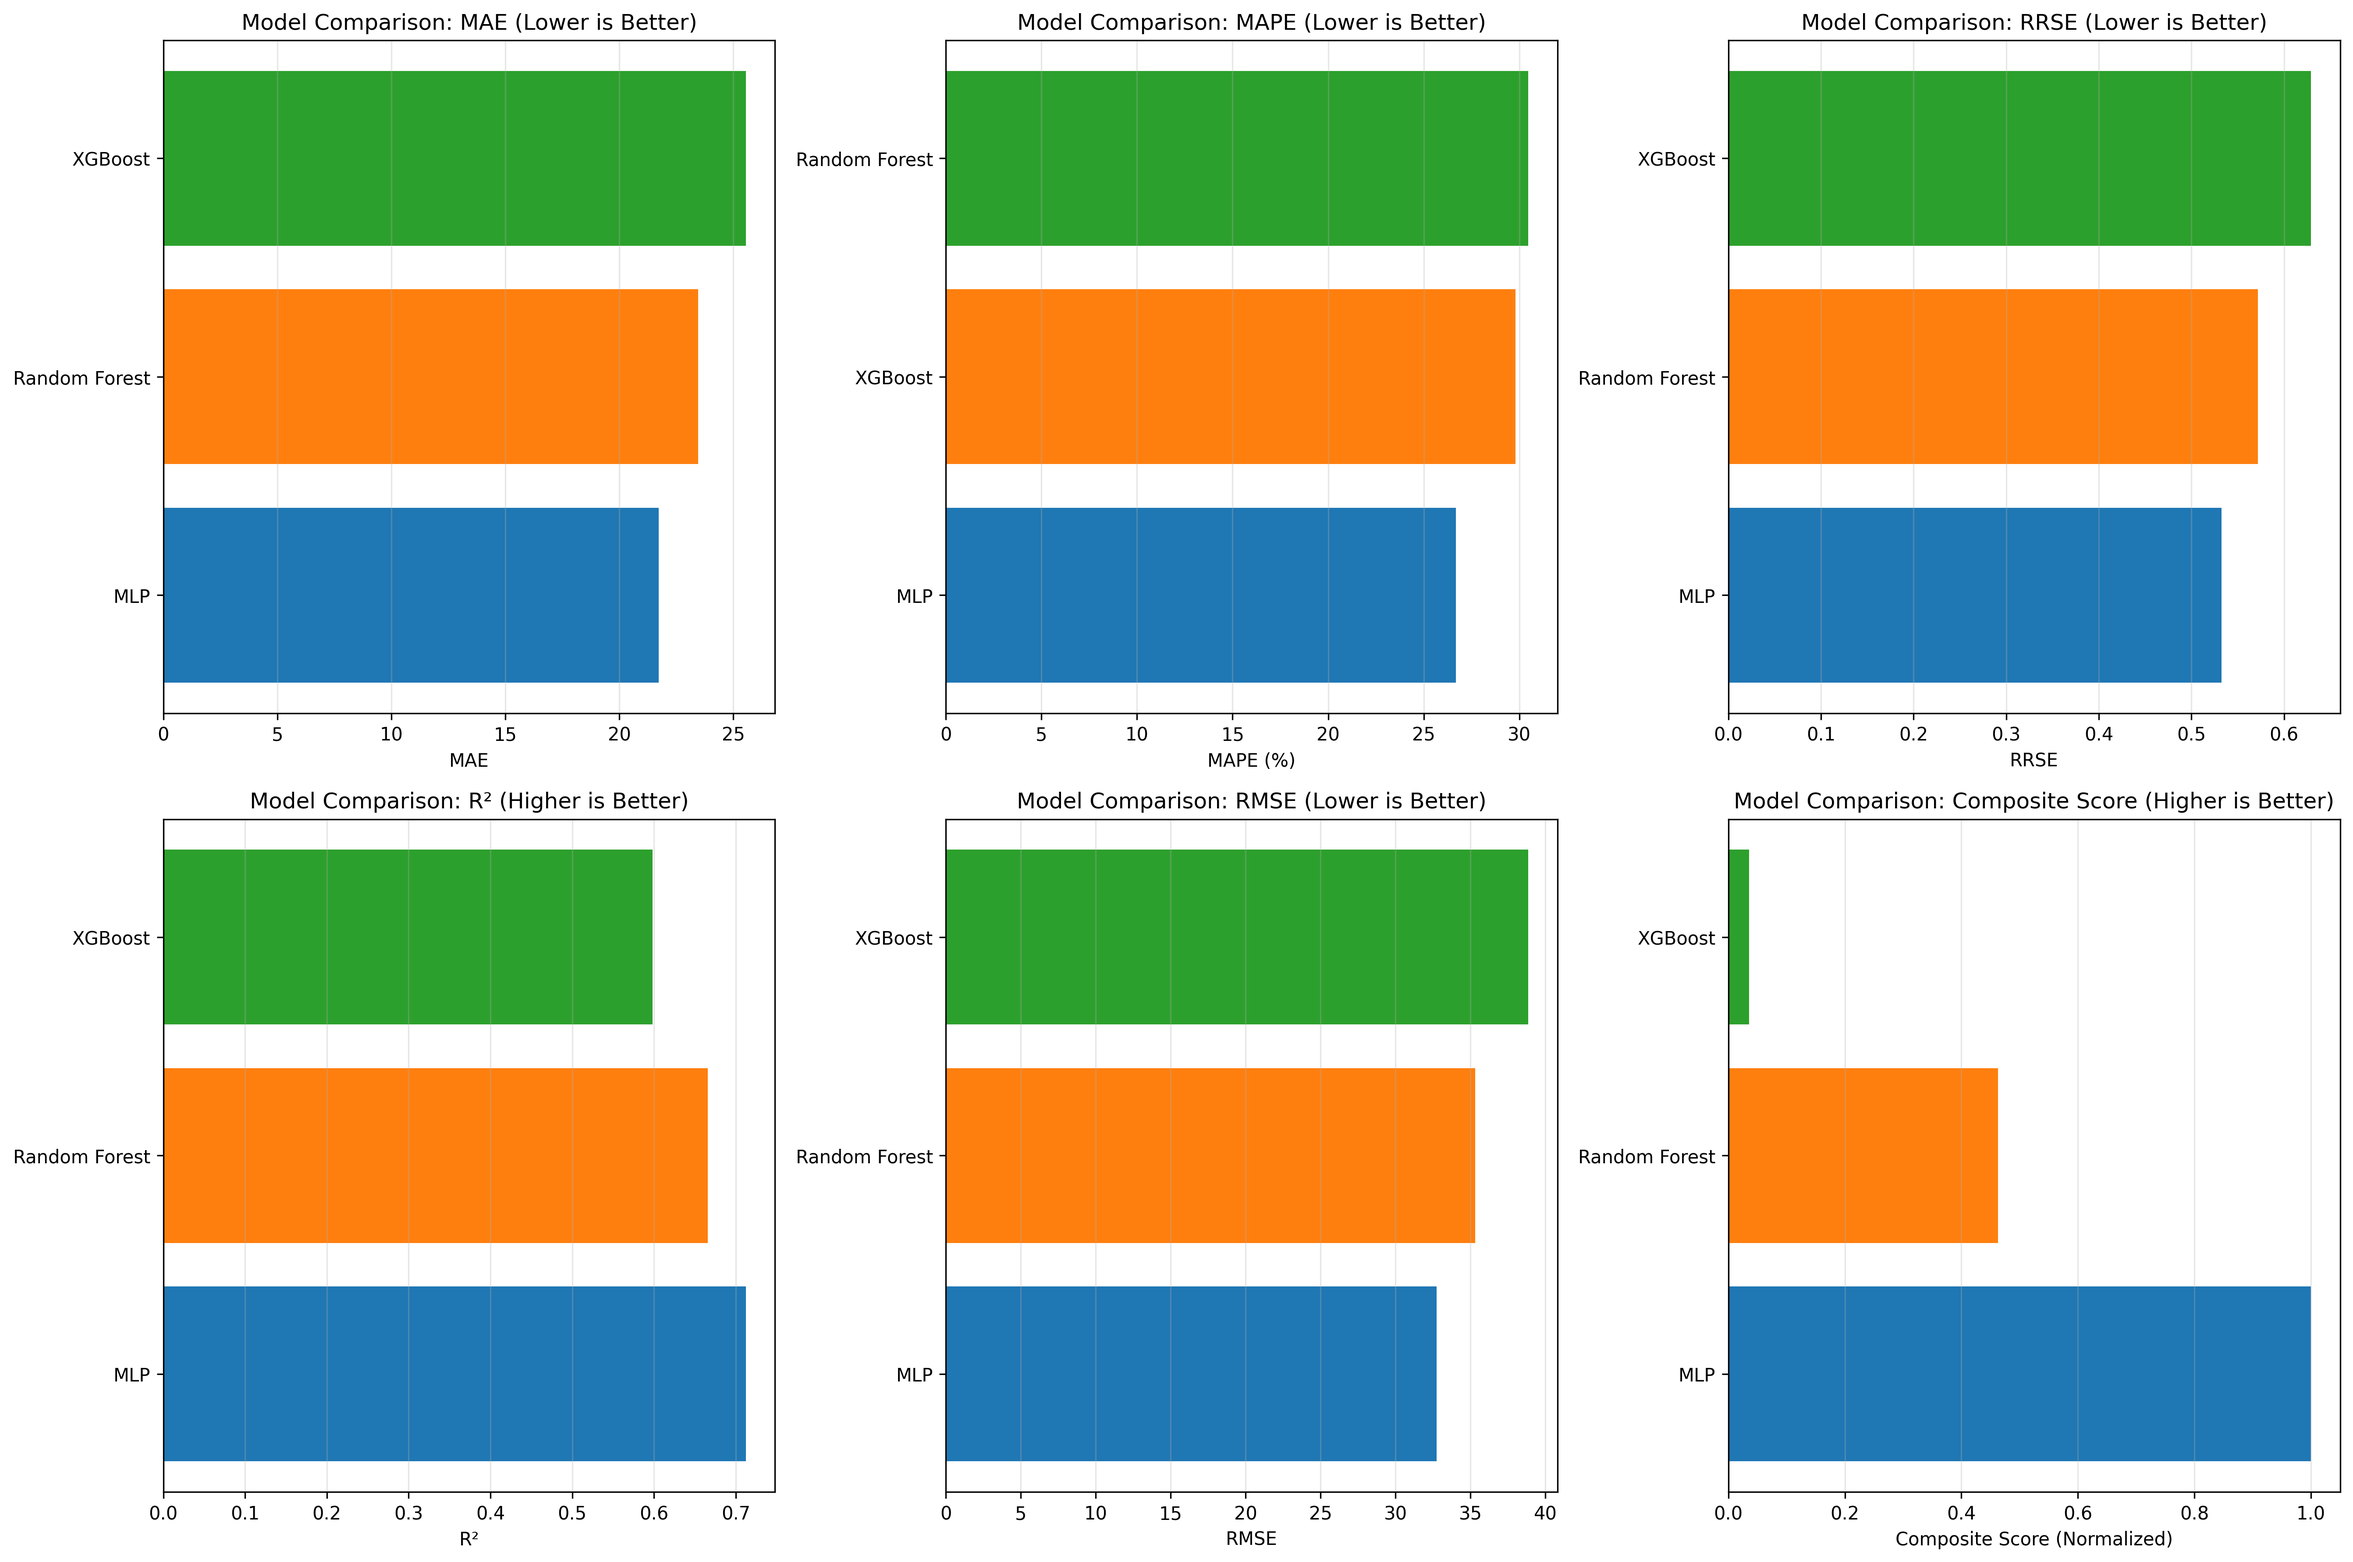
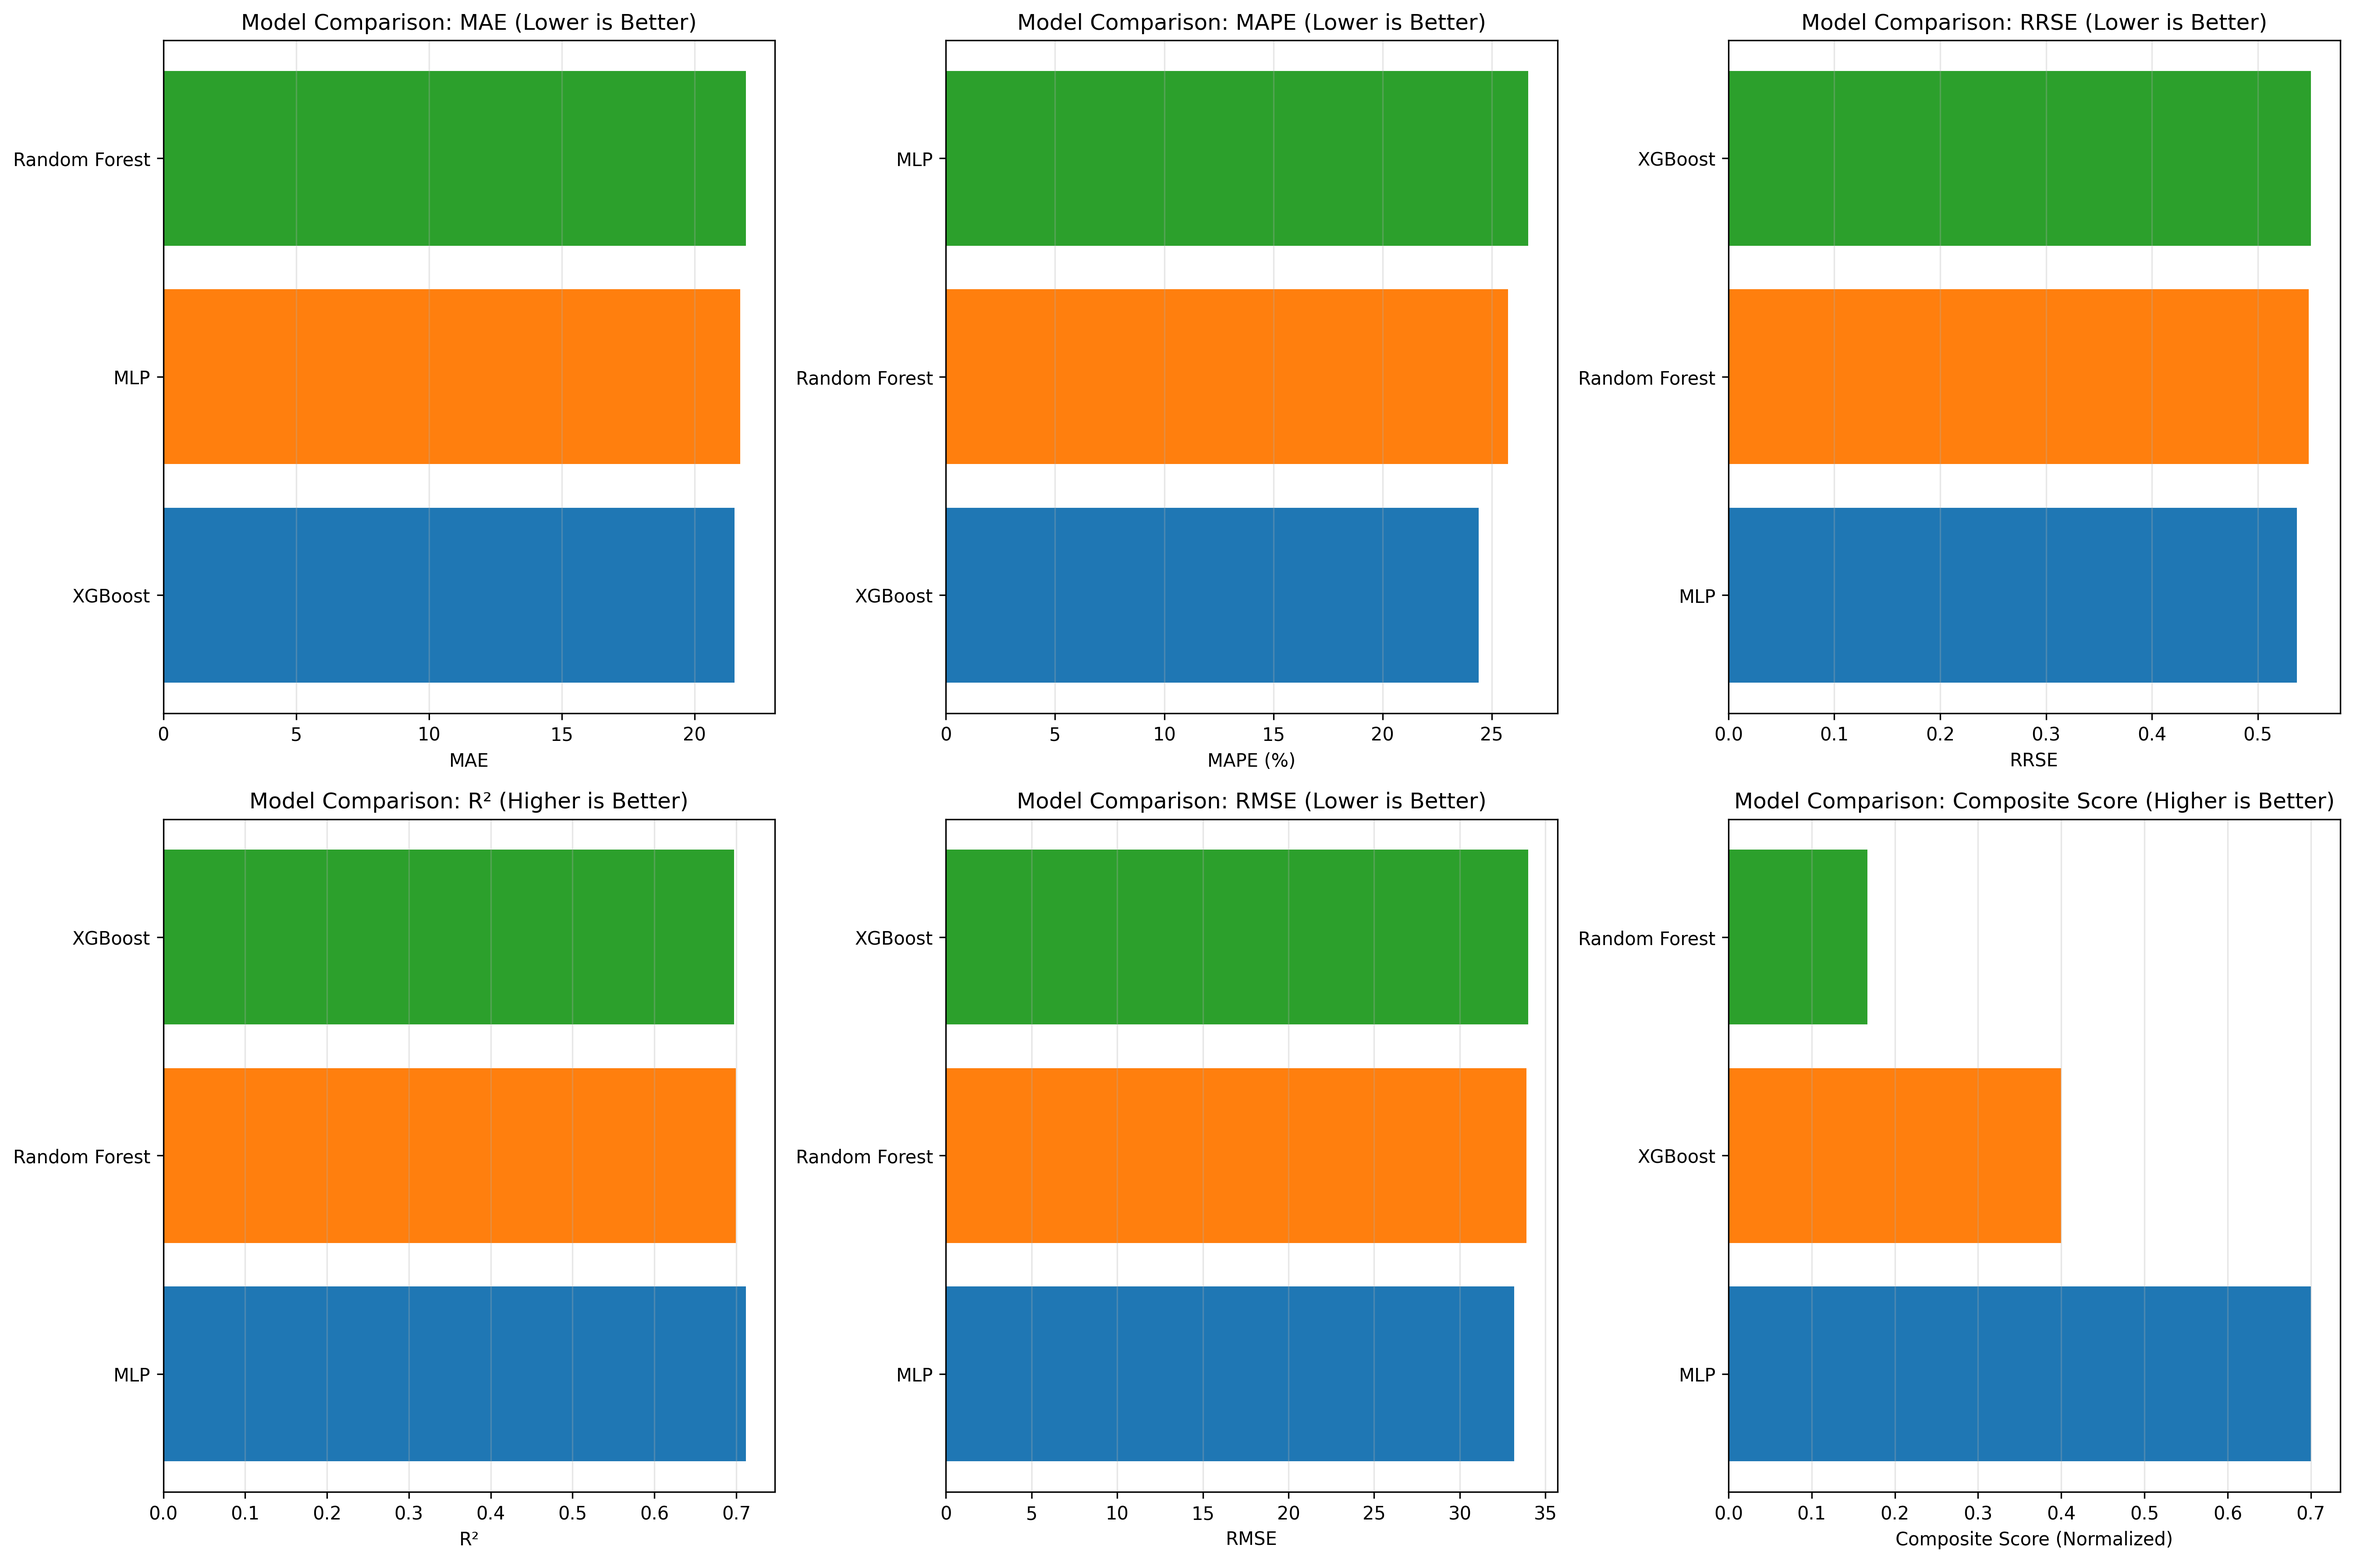
fix compare bug

diff --git a/xgboost_reg/model_comparision.py b/xgboost_reg/model_comparision.py
@@ -151,7 +151,7 @@ def main():
     print(f"\nFeature shape: {X.shape}")
     print(f"Number of features: {X.shape[1]}")
     print(f"Target shape: {y.shape}")
-    print(f"Using {X.shape[0]} samples for 10-fold cross-validation")
+    print(f"Using {X.shape[0]} test samples for evaluation")
     
     # 定义要对比的模型
     models = {}
@@ -159,13 +159,14 @@ def main():
     
     print("\n" + "="*80)
     print("Model Comparison: XGBoost vs MLP vs Random Forest")
+    print("Loading pre-trained models and evaluating on test set")
     print("="*80)
     
     # 检测是否有 GPU
     device = 'cuda' if torch.cuda.is_available() else 'cpu'
     print(f"Using device: {device}")
     
-    # 1. XGBoost - 加载预训练模型并使用交叉验证评估
+    # 1. XGBoost - 加载预训练模型并在测试集上评估
     print("\n[1/3] XGBoost")
     xgb_model_path = 'xgb_best_model.model'
     if os.path.exists(xgb_model_path):
@@ -173,7 +174,15 @@ def main():
         models['XGBoost'] = xgb.XGBRegressor()
         models['XGBoost'].load_model(xgb_model_path)
         print("  ✓ Model loaded successfully")
-        results['XGBoost'] = cross_val_evaluate_sklearn(models['XGBoost'], X, y, "XGBoost", n_folds=10)
+        print("  Evaluating on test set...")
+        y_pred = models['XGBoost'].predict(X)
+        results['XGBoost'] = {
+            'MAE': mean_absolute_error(y, y_pred),
+            'MAPE': mape(y, y_pred),
+            'RMSE': np.sqrt(mean_squared_error(y, y_pred)),
+            'R²': r2_score(y, y_pred),
+            'RRSE': rrse(y, y_pred),
+        }
     else:
         print(f"  ✗ Error: Pre-trained model not found at {xgb_model_path}")
         print("  Please train the model first using train.py")
@@ -209,7 +218,15 @@ def main():
             mlp_scaler = checkpoint.get('scaler', StandardScaler())
             models['MLP'] = MLPWrapper(mlp_model, mlp_scaler, device=device)
             print("  ✓ Model loaded successfully")
-            results['MLP'] = cross_val_evaluate_mlp(models['MLP'], X, y, "MLP", n_folds=10)
+            print("  Evaluating on test set...")
+            y_pred = models['MLP'].predict(X)
+            results['MLP'] = {
+                'MAE': mean_absolute_error(y, y_pred),
+                'MAPE': mape(y, y_pred),
+                'RMSE': np.sqrt(mean_squared_error(y, y_pred)),
+                'R²': r2_score(y, y_pred),
+                'RRSE': rrse(y, y_pred),
+            }
         except Exception as e:
             print(f"  ✗ Error loading MLP model: {e}")
             import traceback
@@ -230,7 +247,15 @@ def main():
             models['Random Forest'] = checkpoint['model']
             print("  ✓ Model loaded successfully")
             print(f"  Best parameters: {checkpoint.get('best_params', 'N/A')}")
-            results['Random Forest'] = cross_val_evaluate_sklearn(models['Random Forest'], X, y, "Random Forest", n_folds=10)
+            print("  Evaluating on test set...")
+            y_pred = models['Random Forest'].predict(X)
+            results['Random Forest'] = {
+                'MAE': mean_absolute_error(y, y_pred),
+                'MAPE': mape(y, y_pred),
+                'RMSE': np.sqrt(mean_squared_error(y, y_pred)),
+                'R²': r2_score(y, y_pred),
+                'RRSE': rrse(y, y_pred),
+            }
         except Exception as e:
             print(f"  ✗ Error loading Random Forest model: {e}")
             import traceback
@@ -243,55 +268,28 @@ def main():
     
     # 打印对比结果
     print("\n" + "="*80)
-    print("Model Comparison Results (10-Fold Cross-Validation)")
+    print("Model Comparison Results (Test Set Evaluation)")
     print("="*80)
     
-    # 创建结果 DataFrame（只保留平均值，不包含标准差）
-    results_summary = {}
-    for model_name, metrics in results.items():
-        results_summary[model_name] = {
-            'MAE': metrics['MAE'],
-            'MAPE': metrics['MAPE'],
-            'RRSE': metrics['RRSE'],
-            'R²': metrics['R²'],
-            'RMSE': metrics['RMSE'],
-        }
-    
-    comparison_df = pd.DataFrame(results_summary).T
+    # 创建结果 DataFrame
+    comparison_df = pd.DataFrame(results).T
     comparison_df = comparison_df.sort_values('MAPE')  # 按 MAPE 排序
     
-    # 格式化输出（带标准差）
+    # 格式化输出
     print(f"\n{'Model':<20} {'MAE':<15} {'MAPE (%)':<15} {'RRSE':<15} {'R²':<15} {'RMSE':<15}")
     print("-" * 100)
     
     for model_name in comparison_df.index:
-        row = comparison_df.loc[model_name]
         metrics = results[model_name]
         print(f"{model_name:<20} "
-              f"{metrics['MAE']:>6.2f}±{metrics['MAE_std']:>5.2f}  "
-              f"{metrics['MAPE']:>6.2f}±{metrics['MAPE_std']:>5.2f}  "
-              f"{metrics['RRSE']:>6.4f}±{metrics['RRSE_std']:>6.4f}  "
-              f"{metrics['R²']:>6.4f}±{metrics['R²_std']:>6.4f}  "
-              f"{metrics['RMSE']:>6.2f}±{metrics['RMSE_std']:>5.2f}")
+              f"{metrics['MAE']:>6.2f}      "
+              f"{metrics['MAPE']:>6.2f}      "
+              f"{metrics['RRSE']:>6.4f}      "
+              f"{metrics['R²']:>6.4f}      "
+              f"{metrics['RMSE']:>6.2f}")
     
-    # 保存结果到 CSV（包含平均值和标准差）
-    results_for_csv = {}
-    for model_name, metrics in results.items():
-        results_for_csv[model_name] = {
-            'MAE_mean': metrics['MAE'],
-            'MAE_std': metrics['MAE_std'],
-            'MAPE_mean': metrics['MAPE'],
-            'MAPE_std': metrics['MAPE_std'],
-            'RRSE_mean': metrics['RRSE'],
-            'RRSE_std': metrics['RRSE_std'],
-            'R²_mean': metrics['R²'],
-            'R²_std': metrics['R²_std'],
-            'RMSE_mean': metrics['RMSE'],
-            'RMSE_std': metrics['RMSE_std'],
-        }
-    
-    comparison_df_full = pd.DataFrame(results_for_csv).T
-    comparison_df_full.to_csv('model_comparison_results.csv')
+    # 保存结果到 CSV
+    comparison_df.to_csv('model_comparison_results.csv')
     print(f"\nResults saved to 'model_comparison_results.csv'")
     
     # 找出最佳模型
